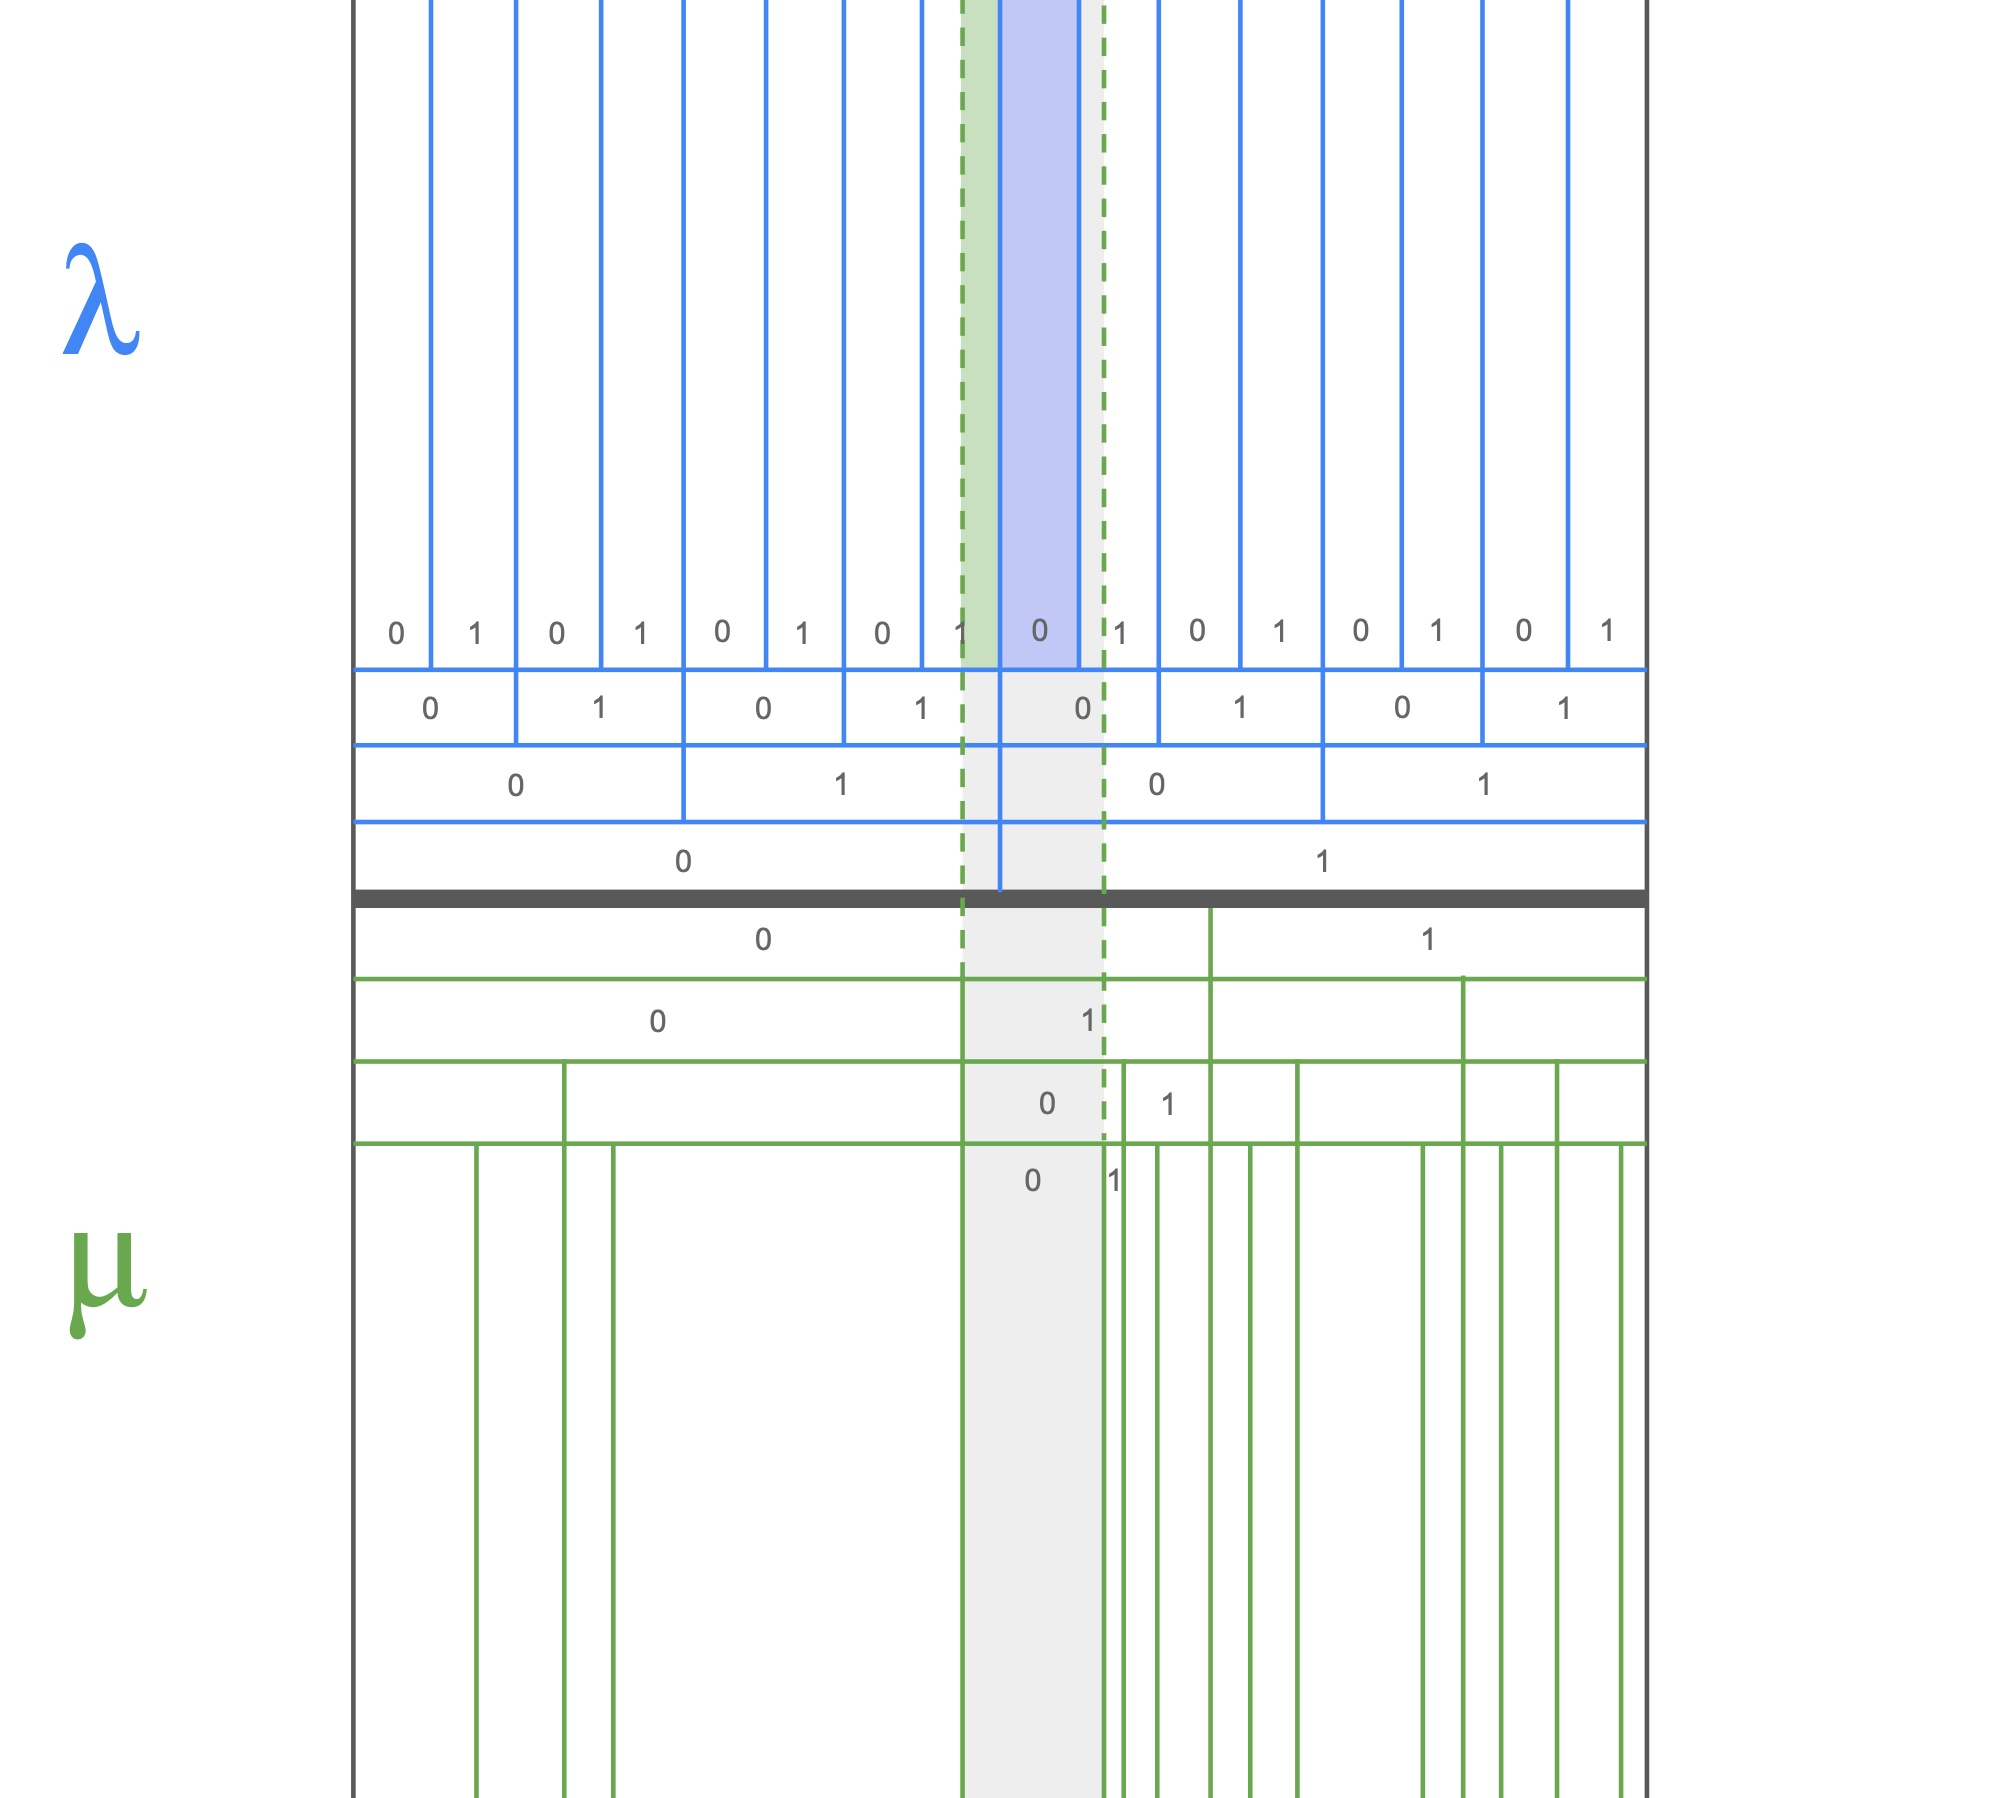
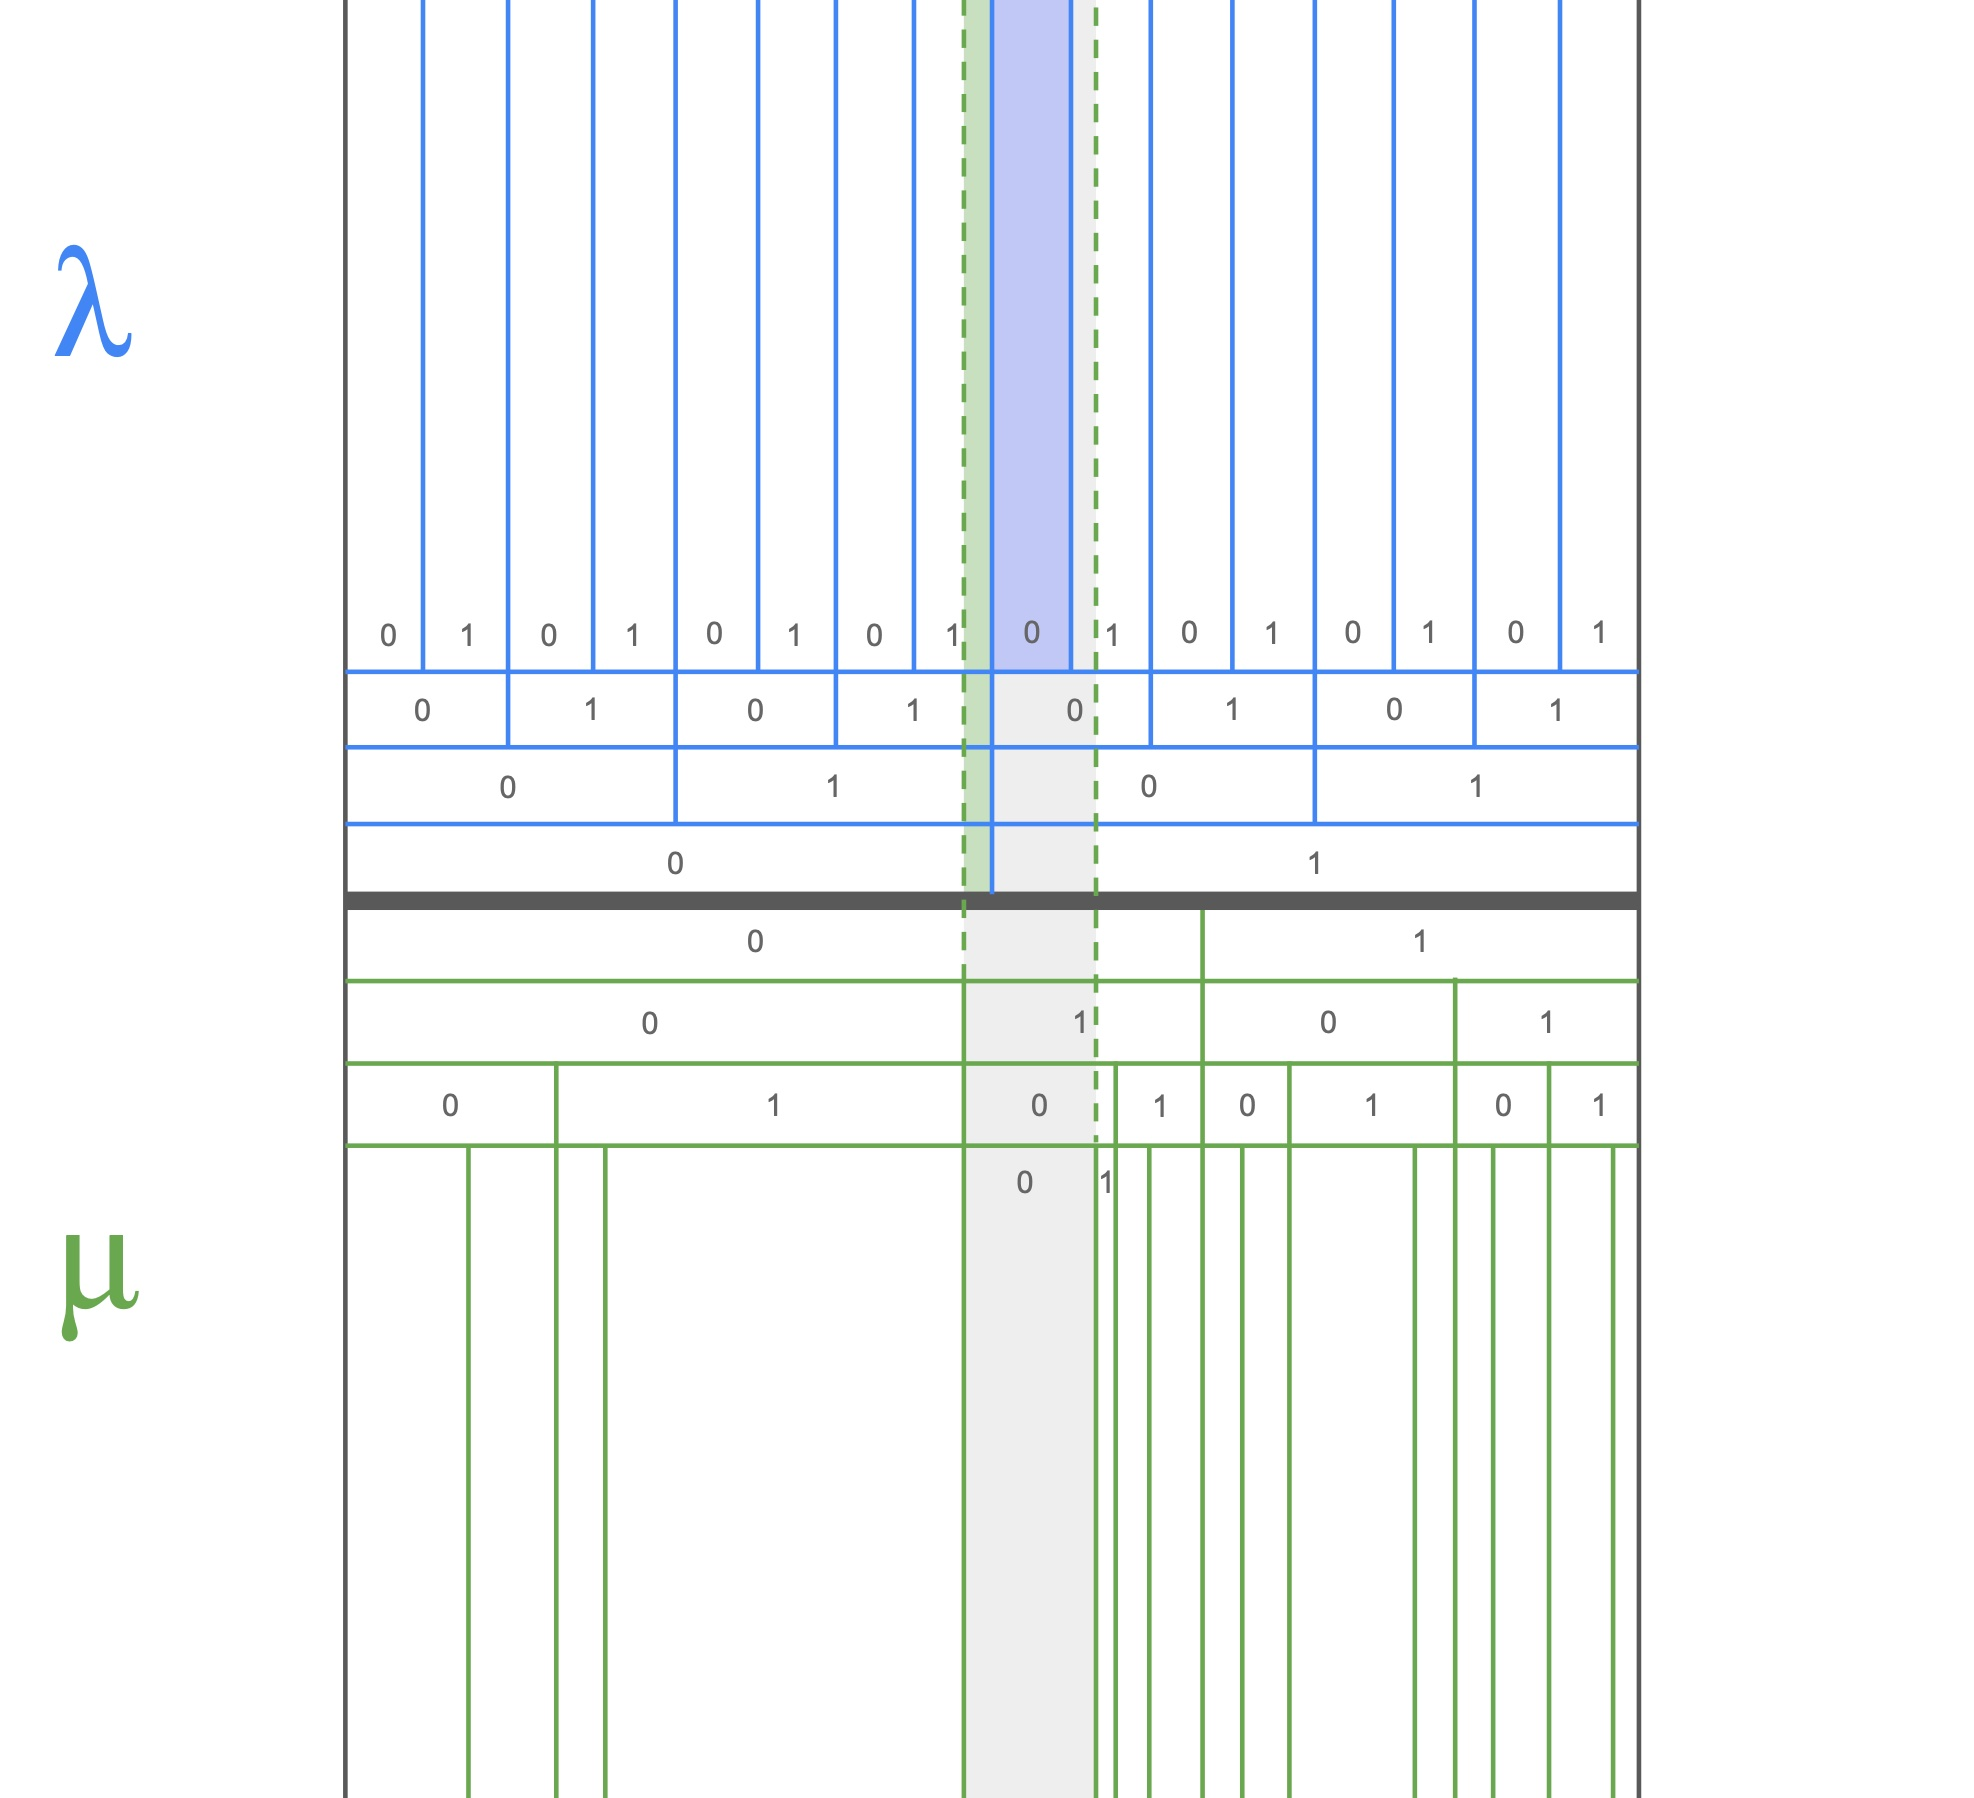
minor fixes

diff --git a/content/posts/Shannon vs Universal Compression.md b/content/posts/Shannon vs Universal Compression.md
@@ -1,6 +1,6 @@
 ---
 date: 2023-02-16
-lastmod: '2023-02-16T16:47:08-08:00'
+lastmod: '2023-02-16T20:09:20-08:00'
 tags:
 - information
 - AIT
@@ -280,7 +280,9 @@ Why infinite sequences? We could model the data as an element of $\\B^\*$, the f
 
 In practice, we are compressing finite chunks of data, so this fits. But then this is no longer online/monotonic compression. If you compress a finite sequence of length $n$, and then receive a continuation bringing it to length $n'$, the part of the compression which stores the length needs to be retroactively changed to bring in the new data.
 
-If that's not a big deal in practice, then I would argue that is because we are actually treating it more like the case of infinite sequences, but where we have a mutual length value off to the side to store the intermediate length at some point in time. In conclusion, the problem of online/monotonic compression implies compression of infinite sequences. Shannon seems to agree, since in his paper, he essentially deals with infinite sequences (by virtue of minimizing average, a.k.a. asymptotic, compression length).
+If that's not a big deal in practice, then I would argue that is because we are actually treating it more like the case of infinite sequences, but where we have a mutable length value off to the side to store the length at intermediate points in time.
+
+In this sense, the problem of online/monotonic compression implies compression of infinite sequences. Shannon implicitly invokes infinite data sequences by virtue of minimizing average, a.k.a. asymptotic, compression length.
 
 ## Greedy compression
 
@@ -302,7 +304,9 @@ $$
 \\Km\_U(x) = \\min\\set{\\ell(p) \\mid x \\sqsubseteq U(p),\\ p \\in \\B^\*}
 $$
 
-As we see, with $\\Km$ it is sufficient to produce an input prefix $p$ which generates at least $x$ as a prefix at the output. In this way, $p$ need not encode any length information about $x$. An intuition pump for $\\Km$ is a monotone machine $M$ performing arithmetic decoding according to some measure $\\mu$. (note that the $U$ argument for $K$ or $\\Km$ need not be universal). Then $\\Km\_M(x)$ is the shortest arithmetic encoding that is $M$-decoded to a sequence starting with $x$. Note that as we make $x$ longer, $\\Km\_M(x)$ need not monotonically change (TODO: show visual example)
+As we see, with $\\Km$ it is sufficient to produce an input prefix $p$ which generates at least $x$ as a prefix at the output. In this way, $p$ need not encode any length information about $x$.
+
+An intuition pump for $\\Km\_M$ is to imagine using a monotone machine $M$ that performs arithmetic decoding according to some measure $\\mu$. (note that the $U$ argument for $K$ or $\\Km$ need not be universal). Then $\\Km\_M(x)$ is the length of the shortest arithmetic encoding that is $M$-decoded to a sequence starting with $x$. Let $p\_x$ be that shortest encoding (program prefix). As we append to $x$, $p\_x$ need not monotonically change. See [#Appendix - Greedy vs Monotonic](#appendix---greedy-vs-monotonic) for a visual example of this.
 
 ### Optimality
 
